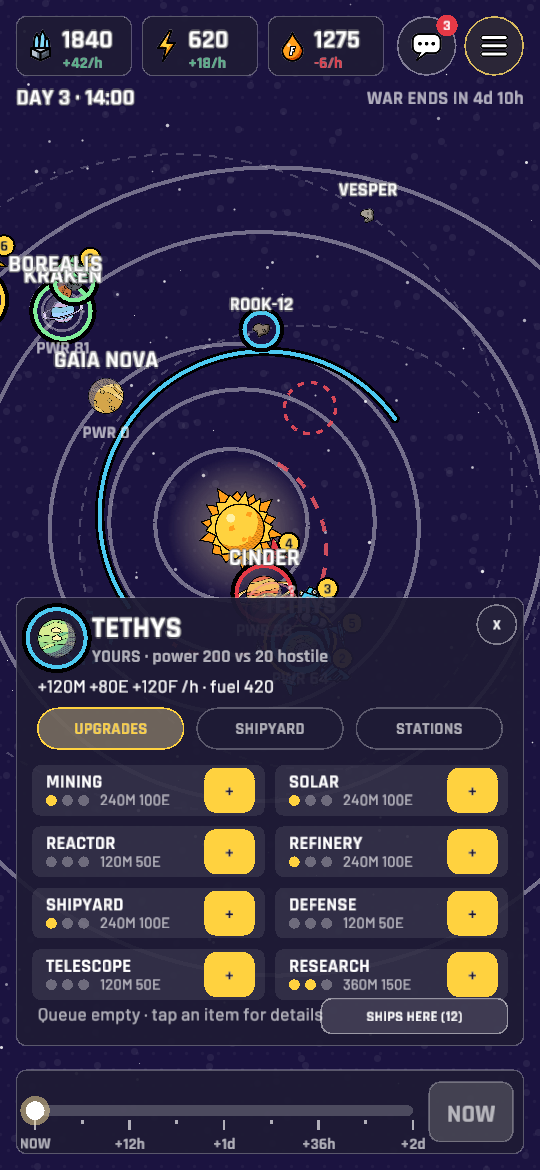
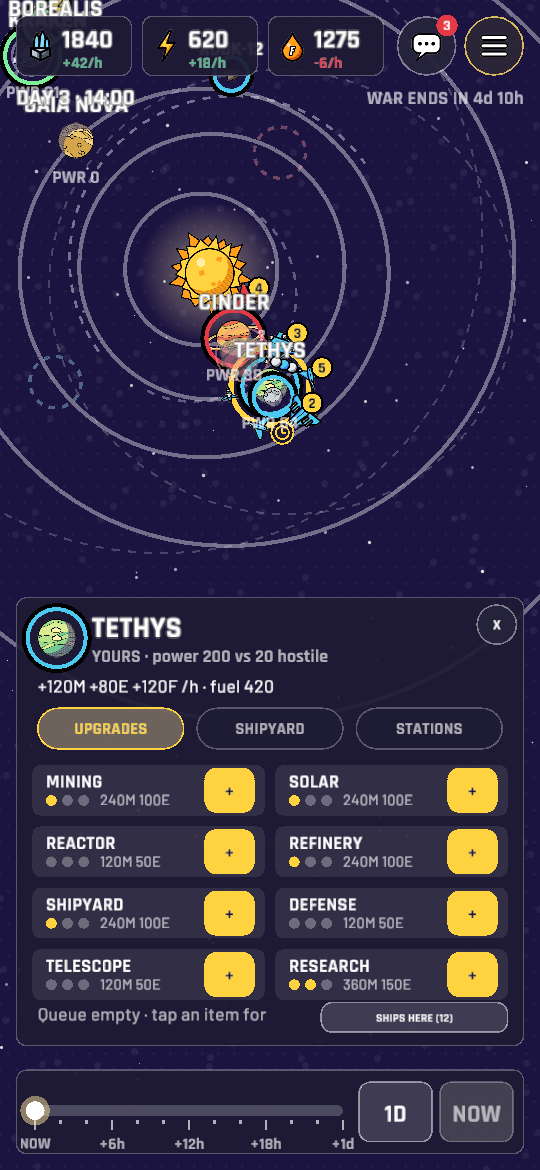
ui: bodies win taps (parked ships only once their body is selected); camera follows the selection
- hit_test: a tap near a planet/asteroid selects it; ships parked there become tappable once the
  body or one of its ships is selected. Ships in open space stay directly tappable.
- Camera eases onto the selection every frame (aimed at the map band above the bottom sheet);
  pinch-zoom keeps it there, a manual pan stops following, RE-CENTRE or a new selection resumes.

diff --git a/crates/ui/src/game/mod.rs b/crates/ui/src/game/mod.rs
@@ -84,6 +84,8 @@ pub struct GameScreen {
     pub detail: Option<details::Detail>,
     /// Node-editor projection for (ship, nodes) — recomputed when the nodes change.
     pub node_outcome: Option<(ShipId, Vec<ManeuverNode>, NodeOutcome)>,
+    /// Camera follows the selection; a manual pan turns it off, a new selection or RE-CENTRE turns it on.
+    pub follow: bool,
     /// Resource breakdown sheet (0 matter, 1 energy, 2 fuel) opened from the top bar.
     pub res_open: Option<usize>,
     /// In-game menu popover open.
@@ -135,6 +137,7 @@ impl GameScreen {
             menu_open: false,
             detail: None,
             res_open: None,
+            follow: true,
             node_outcome: None,
             research_open: false,
             research_branch: 0,
@@ -223,6 +226,7 @@ impl GameScreen {
             // Overlays are drawn after the map but must win the input, so they register their
             // rects (Input::block) and the map only handles gestures that started elsewhere.
             self.handle_map_input(inp, be_ref, view, t);
+            self.follow_selection(be_ref, t);
 
             let cam = self.cam.unwrap();
             map::draw_orbits(be_ref, view, &cam, t);
@@ -253,6 +257,9 @@ impl GameScreen {
                 panels::hud(self, inp, view);
                 panels::sheet(self, inp, be_ref, view);
                 panels::scrubber(self, inp, be_ref, view);
+                if !self.chat_open {
+                    panels::recenter_button(self, inp);
+                }
                 // Toasts sit over the chat panel's corner; hold them while chatting.
                 if !self.chat_open {
                     panels::toasts(self, inp, be_ref, view);
@@ -318,11 +325,20 @@ impl GameScreen {
         };
 
         if on_map && !node_dragging {
+            let following = self.follow && self.selected.is_some();
             if let Some((c, k)) = inp.zoom {
+                // While following, zoom about the screen centre so the selection stays put.
+                let c = if following { vec2(screen_width() / 2.0, screen_height() * 0.33) } else { c };
                 cam.zoom_at(c, k, fit.zoom * 0.5, fit.zoom * 400.0);
             }
             if let Some(d) = inp.drag {
-                cam.pan_px(d);
+                // a deliberate pan (not pinch jitter) breaks the follow
+                if inp.zoom.is_none() && d.length() > 0.5 {
+                    self.follow = false;
+                }
+                if !(following && inp.zoom.is_some()) {
+                    cam.pan_px(d);
+                }
             }
         }
         self.cam = Some(cam);
@@ -340,7 +356,7 @@ impl GameScreen {
     }
 
     fn on_tap(&mut self, be: &dyn Backend, view: &GameView, cam: &Camera, t: f64, p: Vec2) {
-        let hit = map::hit_test(be, view, cam, t, p);
+        let hit = map::hit_test(be, view, cam, t, p, self.selected);
         match (&self.mode, hit) {
             (Mode::Target(ship), Some(Focus::Body(b))) => {
                 let ship = *ship;
@@ -438,7 +454,7 @@ impl GameScreen {
         // Long-press on one of our ships, or on its path, opens the node editor there.
         let mine: Vec<&Ship> = view.ships.iter().filter(|s| s.owner == view.me).collect();
         let mut pick: Option<(ShipId, f64)> = None;
-        if let Some(Focus::Ship(id)) = map::hit_test(be, view, cam, t, p) {
+        if let Some(Focus::Ship(id)) = map::hit_test(be, view, cam, t, p, self.selected) {
             if mine.iter().any(|s| s.id == id) {
                 pick = Some((id, t.max(view.now) + 600.0));
             }
@@ -490,6 +506,26 @@ impl GameScreen {
     }
 
     /// Centre the camera on a focus target.
+    /// Ease the camera toward the selected body/ship every frame (planets keep moving in real time).
+    fn follow_selection(&mut self, be: &dyn Backend, t: f64) {
+        if !self.follow {
+            return;
+        }
+        let target = match self.selected {
+            Some(Focus::Body(b)) => Some(be.body_pos(b, t)),
+            Some(Focus::Ship(s)) => be.ship_pos(s, t),
+            None => None,
+        };
+        let (Some(p), Some(cam)) = (target, self.cam.as_mut()) else { return };
+        // Aim for the middle of the map band left above the selection's bottom sheet (~1/3 down),
+        // not the true screen centre, which the sheet covers.
+        let dy = (screen_height() * 0.33 - screen_height() / 2.0) as f64 / cam.zoom;
+        let goal = [p[0], p[1] - dy];
+        let k = 1.0 - (-(get_frame_time() as f64) * 8.0).exp();
+        cam.center[0] += (goal[0] - cam.center[0]) * k;
+        cam.center[1] += (goal[1] - cam.center[1]) * k;
+    }
+
     pub fn focus(&mut self, be: &dyn Backend, f: Focus, t: f64) {
         let p = match f {
             Focus::Body(b) => Some(be.body_pos(b, t)),
@@ -513,6 +549,8 @@ impl GameScreen {
         }
         self.owned = owned;
         if self.selected != self.last_selected {
+            // something new picked: centre on it again
+            self.follow = true;
             if self.last_selected.is_some() {
                 self.detail = None;
             }

diff --git a/crates/ui/src/game/map.rs b/crates/ui/src/game/map.rs
@@ -343,29 +343,48 @@ pub fn status_badge(c: Vec2, st: ShipStatus) {
     }
 }
 
-/// What's under a tap: ships first (they're small), then bodies.
-pub fn hit_test(be: &dyn Backend, view: &GameView, cam: &Camera, t: f64, p: Vec2) -> Option<Focus> {
-    let mut best: Option<(f32, Focus)> = None;
-    for sh in &view.ships {
-        if let Some((sp, _)) = ship_screen(be, view, cam, sh, t) {
-            let d = sp.distance(p);
-            if d < 22.0 * s() && best.is_none_or(|(bd, _)| d < bd) {
-                best = Some((d, Focus::Ship(sh.id)));
-            }
-        }
-    }
-    if best.is_some() {
-        return best.map(|b| b.1);
-    }
+/// What's under a tap. Bodies win: a tap on or near a planet/asteroid selects the body, and the ships
+/// parked around it only become tappable once that body (or one of its ships) is selected.
+/// Ships out in open space are always tappable.
+pub fn hit_test(be: &dyn Backend, view: &GameView, cam: &Camera, t: f64, p: Vec2, selected: Option<Focus>) -> Option<Focus> {
+    // Nearest body whose tap zone (body + its parked-ship ring) contains p.
+    let mut body: Option<(f32, &Body)> = None;
     for b in &view.bodies {
         let c = cam.to_screen(be.body_pos(b.id, t));
-        let r = body_radius_px(b, cam).max(22.0 * s());
+        let zone = (body_radius_px(b, cam) + 30.0 * s()).max(26.0 * s());
         let d = c.distance(p);
-        if d < r && best.is_none_or(|(bd, _)| d < bd) {
-            best = Some((d, Focus::Body(b.id)));
+        if d < zone && body.is_none_or(|(bd, _)| d < bd) {
+            body = Some((d, b));
         }
     }
-    best.map(|b| b.1)
+    // The body the current selection "lives at": the body itself or the parking spot of a selected ship.
+    let open_body = match selected {
+        Some(Focus::Body(b)) => Some(b),
+        Some(Focus::Ship(sid)) => view.ship(sid).filter(|sh| !is_flying(sh, t)).and_then(|sh| sh.parked_at),
+        None => None,
+    };
+    let mut ship: Option<(f32, ShipId)> = None;
+    for sh in &view.ships {
+        let Some((sp, _)) = ship_screen(be, view, cam, sh, t) else { continue };
+        let d = sp.distance(p);
+        if d >= 22.0 * s() || ship.is_some_and(|(bd, _)| d >= bd) {
+            continue;
+        }
+        let allowed = if is_flying(sh, t) {
+            // in transit: only blocked when it's passing right over a body that isn't open
+            body.is_none_or(|(_, b)| open_body == Some(b.id))
+        } else {
+            sh.parked_at.is_none() || sh.parked_at == open_body
+        };
+        if allowed {
+            ship = Some((d, sh.id));
+        }
+    }
+    match (ship, body) {
+        (Some((_, id)), _) => Some(Focus::Ship(id)),
+        (None, Some((_, b))) => Some(Focus::Body(b.id)),
+        _ => None,
+    }
 }
 
 /// Nearest time on a timed polyline to screen point `p`, if within `max_px`.

diff --git a/crates/ui/src/game/panels.rs b/crates/ui/src/game/panels.rs
@@ -160,6 +160,20 @@ fn game_menu(g: &mut GameScreen, inp: &mut Input, view: &GameView, at: Rect) {
 
 // ---------------------------------------------------------------- Scrubber
 
+/// RE-CENTRE pill under the HUD when the camera stopped following the selection.
+pub fn recenter_button(g: &mut GameScreen, inp: &mut Input) {
+    if g.follow || g.selected.is_none() {
+        return;
+    }
+    let label = "RE-CENTRE";
+    let w = measure(label, FontKind::Title, 14.0).x + 28.0 * s();
+    // top left under the clock: the bottom is usually covered by the selection's sheet
+    let r = Rect::new(margin(), hud_bottom() + 6.0 * s(), w, 32.0 * s());
+    if widgets::button(inp, r, label, Style::Secondary) {
+        g.follow = true;
+    }
+}
+
 pub fn scrubber(g: &mut GameScreen, inp: &mut Input, be: &dyn Backend, view: &GameView) {
     let w = screen_width();
     let span = g.scrub_span;
